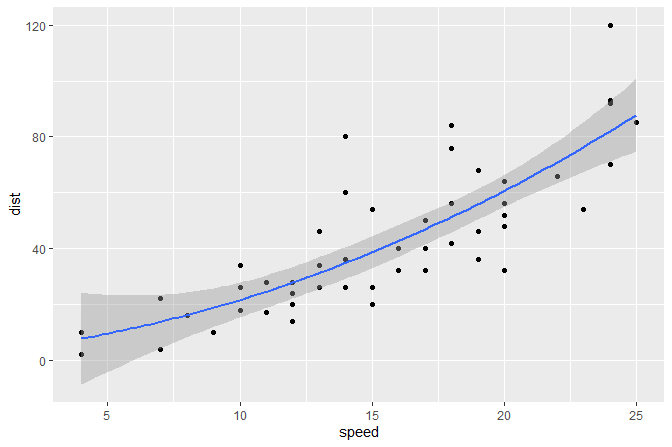
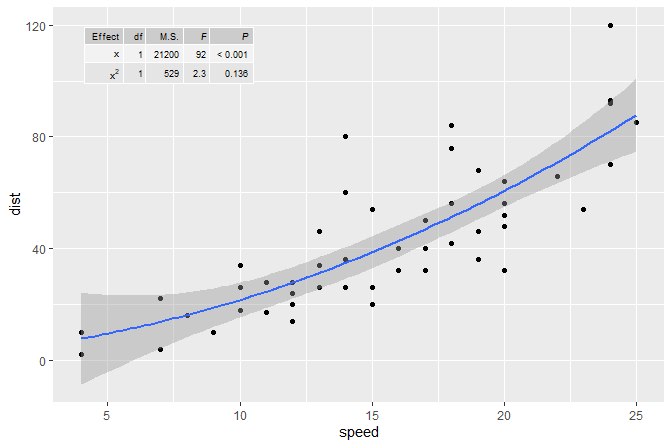
Minor edits to README.Rmd and vignette

Changed region(s): [[0.125, 0.0582, 0.375, 0.1745], [0.1562, 0.1454, 0.1875, 0.2036]]

diff --git a/vignettes/model-based-annotations.html b/vignettes/model-based-annotations.html
@@ -12,7 +12,7 @@
 
 <meta name="author" content="Pedro J. Aphalo" />
 
-<meta name="date" content="2021-05-24" />
+<meta name="date" content="2021-06-03" />
 
 <title>Model-Based Plot Annotations</title>
 
@@ -142,7 +142,7 @@ code span.wa { color: #60a0b0; font-weight: bold; font-style: italic; } /* Warni
 <h1 class="title toc-ignore">Model-Based Plot Annotations</h1>
 <h3 class="subtitle">‘ggpmisc’ 0.4.0</h3>
 <h4 class="author">Pedro J. Aphalo</h4>
-<h4 class="date">2021-05-24</h4>
+<h4 class="date">2021-06-03</h4>
 
 
 <div id="TOC">
@@ -426,7 +426,7 @@ code span.wa { color: #60a0b0; font-weight: bold; font-style: italic; } /* Warni
 <div id="stat_quant_eq" class="section level3">
 <h3>stat_quant_eq()</h3>
 <p>A frequently used annotation in plots showing fitted lines is the display of the parameters estimates from the model fit in an equation. <code>stat_quant_eq</code> automates this for quantile regression of <em>y</em> on <em>x</em> fitted with function <code>quantreg::rq</code>. This <em>statistic</em> behaves similarly as <code>ggplot2::stat_quantiles</code> with <code>method = &quot;rq&quot;</code>.</p>
-<p>Please, see the section on <code>stat_poly_eq()</code> for applicable examples, as here we highlight only the differences between these two statistics. Like <code>stat_quantiles()</code>, <code>stat_quant_eq()</code> supports a <code>numeric</code> vector of quantiles as argument and outputs as many equations per group and as the length of this vector. The computed string <code>grp.label</code> contains by default a character string indicating the value of the quantile.</p>
+<p>Please, see the section on <code>stat_poly_eq()</code> for applicable examples, as here we highlight only the differences between these two statistics. Like <code>stat_quantiles()</code>, <code>stat_quant_eq()</code> supports a <code>numeric</code> vector of quantiles as argument and outputs as many equations per group as values are passed in this vector. The computed string <code>grp.label</code> contains by default a character string indicating the value of the quantile.</p>
 <div class="sourceCode" id="cb26"><pre class="sourceCode r"><code class="sourceCode r"><span id="cb26-1"><a href="#cb26-1" aria-hidden="true" tabindex="-1"></a><span class="fu">ggplot</span>(my.data, <span class="fu">aes</span>(x, y, <span class="at">color =</span> group)) <span class="sc">+</span></span>
 <span id="cb26-2"><a href="#cb26-2" aria-hidden="true" tabindex="-1"></a>  <span class="fu">geom_point</span>() <span class="sc">+</span></span>
 <span id="cb26-3"><a href="#cb26-3" aria-hidden="true" tabindex="-1"></a>  <span class="fu">geom_quantile</span>(<span class="at">method =</span> <span class="st">&quot;rq&quot;</span>, <span class="at">formula =</span> formula,</span>
@@ -436,7 +436,7 @@ code span.wa { color: #60a0b0; font-weight: bold; font-style: italic; } /* Warni
 <span id="cb26-7"><a href="#cb26-7" aria-hidden="true" tabindex="-1"></a>                <span class="at">quantiles =</span> <span class="fu">c</span>(<span class="fl">0.05</span>, <span class="fl">0.5</span>, <span class="fl">0.95</span>),</span>
 <span id="cb26-8"><a href="#cb26-8" aria-hidden="true" tabindex="-1"></a>                <span class="at">formula =</span> formula, <span class="at">parse =</span> <span class="cn">TRUE</span>)</span></code></pre></div>
[1 lines of base64/hex data omitted]
-<p>This can be combined with a group label.</p>
+<p>This can be combined with a group label by mapping in <code>aes()</code> a character variable to <code>grp.label</code>.</p>
 <div class="sourceCode" id="cb27"><pre class="sourceCode r"><code class="sourceCode r"><span id="cb27-1"><a href="#cb27-1" aria-hidden="true" tabindex="-1"></a><span class="fu">ggplot</span>(my.data, <span class="fu">aes</span>(x, y, <span class="at">group =</span> group, <span class="at">linetype =</span> group, </span>
 <span id="cb27-2"><a href="#cb27-2" aria-hidden="true" tabindex="-1"></a>                    <span class="at">shape =</span> group, <span class="at">grp.label =</span> group)) <span class="sc">+</span></span>
 <span id="cb27-3"><a href="#cb27-3" aria-hidden="true" tabindex="-1"></a>  <span class="fu">geom_point</span>() <span class="sc">+</span></span>

diff --git a/README.md b/README.md
@@ -57,14 +57,14 @@ Statistics that help with reporting the results of model fits are
 
 Several extensions formerly included in package ‘ggpmisc’ before version
 0.4.0 were migrated to package ‘ggpp’. They are still available when
-‘ggpmisc’ is loaded, but the documentation needs now resides in the new
+‘ggpmisc’ is loaded, but the documentation now resides in the new
 package ‘**ggpp**’. [![cran
 version](https://www.r-pkg.org/badges/version/ggpp)](https://cran.r-project.org/package=ggpp)
 <a href="https://docs.r4photobiology.info/ggpp/"><img src="https://img.shields.io/badge/documentation-ggpp-informational.svg" alt="" /></a>
 
 Functions for the manipulation of layers in ggplot objects, together
 with statistics and geometries useful for debugging extensions to
-package ‘ggplot2’, included in pacakge ‘ggpmisc’ before version 0.3.0
+package ‘ggplot2’, included in package ‘ggpmisc’ before version 0.3.0
 are now in package ‘**gginnards**’. [![cran
 version](https://www.r-pkg.org/badges/version/gginnards)](https://cran.r-project.org/package=gginnards)
 <a href="https://docs.r4photobiology.info/gginnards/"><img src="https://img.shields.io/badge/documentation-gginnards-informational.svg" alt="" /></a>
@@ -74,6 +74,7 @@ version](https://www.r-pkg.org/badges/version/gginnards)](https://cran.r-project
 ``` r
 library(ggpmisc)
 library(ggrepel)
+library(broom)
 ```
 
 In the first example we plot a time series using the specialized version
@@ -130,11 +131,24 @@ ggplot(cars, aes(speed, dist)) +
               label.y.npc = "top", label.x.npc = "left",
               size = 2.5,
               parse = TRUE)
-#> Warning: Computation failed in `stat_fit_tb()`:
-#> no applicable method for 'tidy' applied to an object of class "c('anova', 'data.frame')"
+#> Dropping params/terms (rows) from table!
 ```
 
 ![](man/figures/README-readme-05-1.png)<!-- -->
+
+The same figure as in the second example but this time using quantile
+regression.
+
+``` r
+formula <- y ~ x + I(x^2)
+ggplot(cars, aes(speed, dist)) +
+  geom_point() +
+  geom_quantile(formula = formula, quantiles = 0.5) +
+  stat_quant_eq(aes(label = paste(stat(grp.label), stat(eq.label), sep = "*\": \"*")),
+               formula = formula, quantiles = 0.5, parse = TRUE)
+```
+
+![](man/figures/README-readme-04b-1.png)<!-- -->
 
 A quadrant plot with counts and labels, using `geom_text_repel()` from
 package ‘ggrepel’.

diff --git a/NEWS.md b/NEWS.md
@@ -16,6 +16,9 @@ contains are needed. Package 'gginnards' containing tools for editing
 ggplot objects as well as tools for inspecting them is an earlier
 spin-off from 'gpmisc'.
 
+The changes in this version stem for users' questions and suggestions.
+Many thanks!
+
 -   Add `stat_quant_eq()` based on quantile regression as implemented in
     package 'quantreg'. (enhancement suggested by *Mark Neal*)
 
@@ -25,12 +28,16 @@ spin-off from 'gpmisc'.
     (enhancement suggested by a question from *ganidat*)
 
 -   Add `r.squared`, `adj.r.squared`, `p.value` and `n` as `numeric`
-    values returned in addition to the corresponding labels as
-    `character` when `stat_poly_eq()` is called with `output.type` other
-    than `numeric`. Similarly for `n` and `rho` in the case of
+    values returned in addition to the corresponding `character` labels
+    when `stat_poly_eq()` is called with `output.type` other than
+    `numeric`. Similarly for `n` and `rho` in the case of
     `stat_quant_eq()`.
 
     (enhancement suggested by a question from *Tiptop*)
+
+-   Fix bug in `stat_poly_eq()` leading to empty returned value when
+    data contains too few observations to fit the model. (reported by
+    *ganidat*)
 
 # ggpmisc 0.3.9
 
